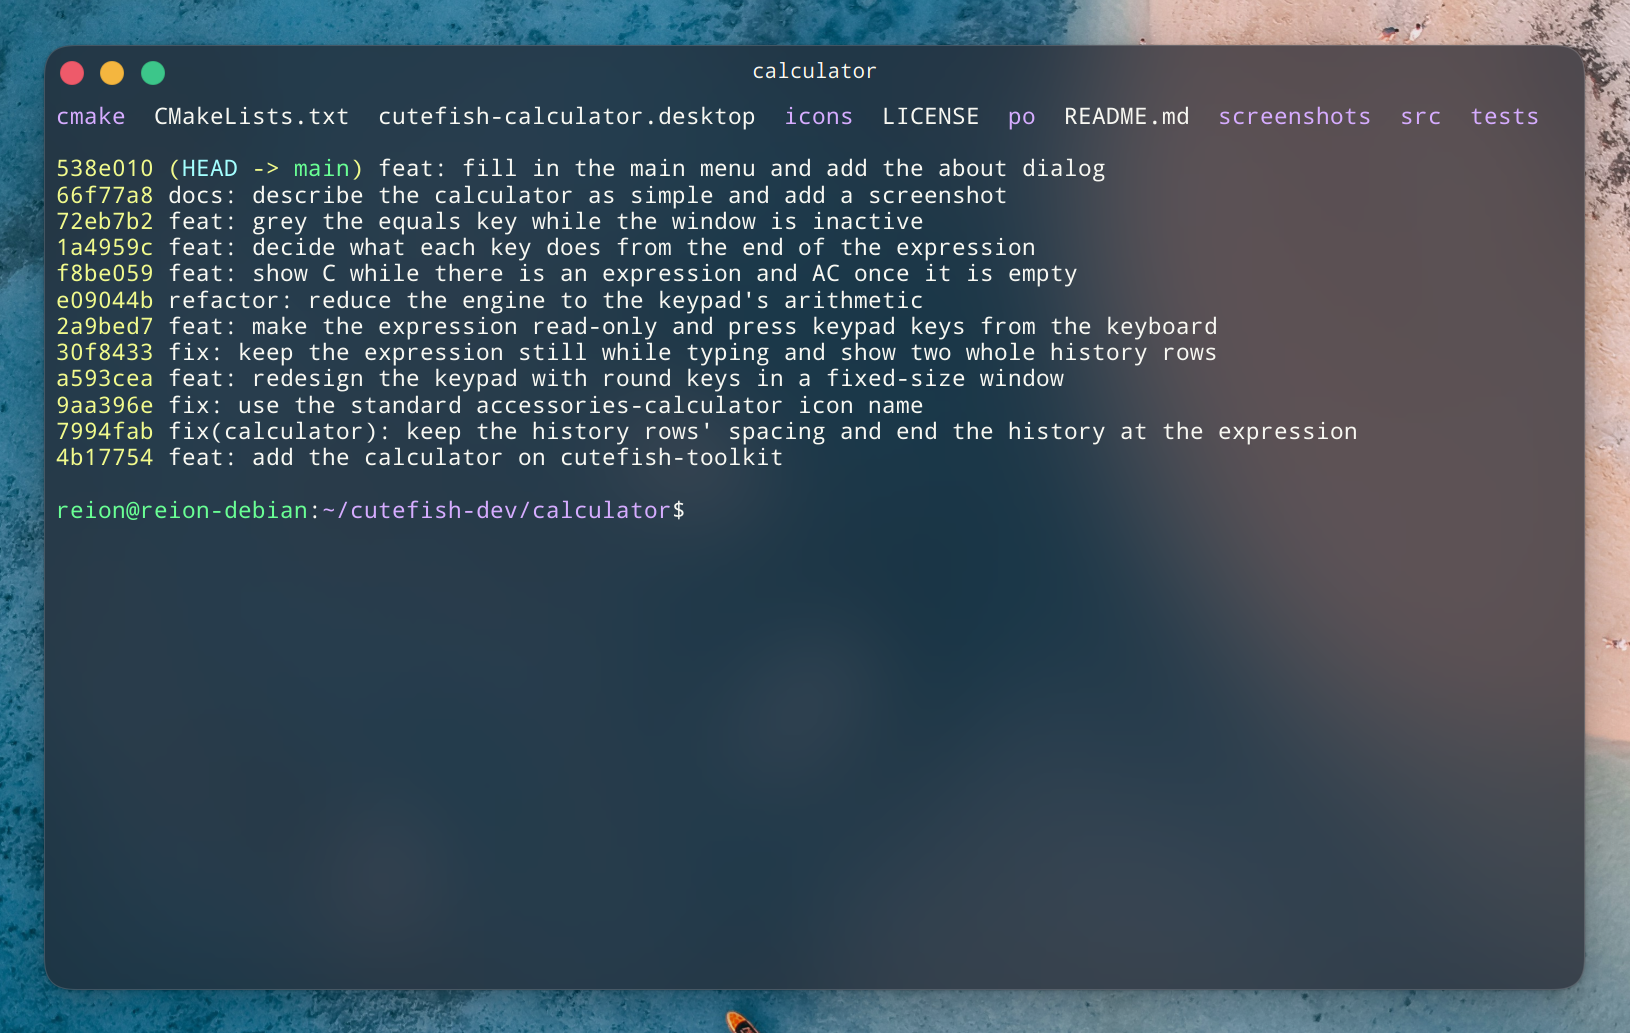
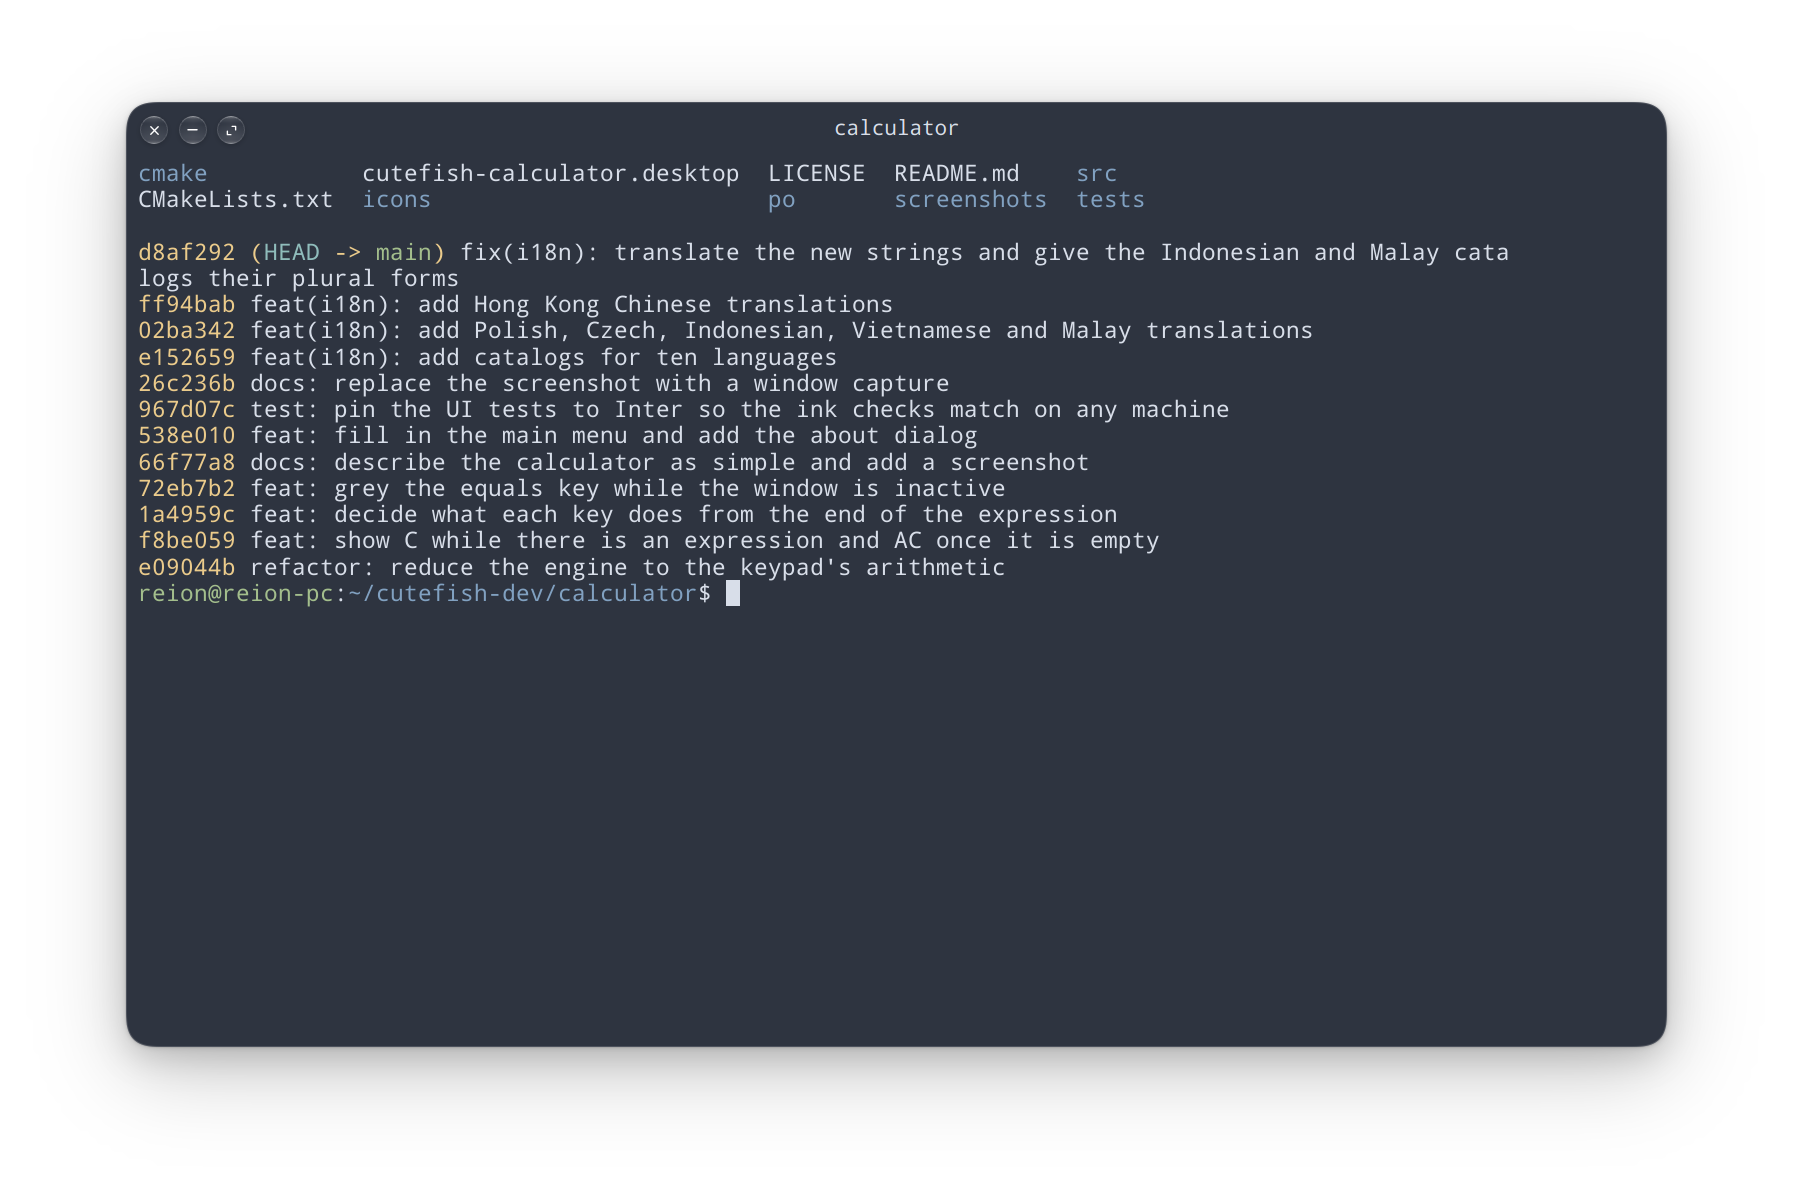
docs: update the screenshot for the new window controls

diff --git a/README.md b/README.md
@@ -2,7 +2,7 @@
 
 A terminal emulator for Cutefish.
 
-<img src="screenshots/terminal.png" alt="Terminal" width="815">
+<img src="screenshots/terminal.png" alt="Terminal" width="897">
 
 ### Third Party Code
 
